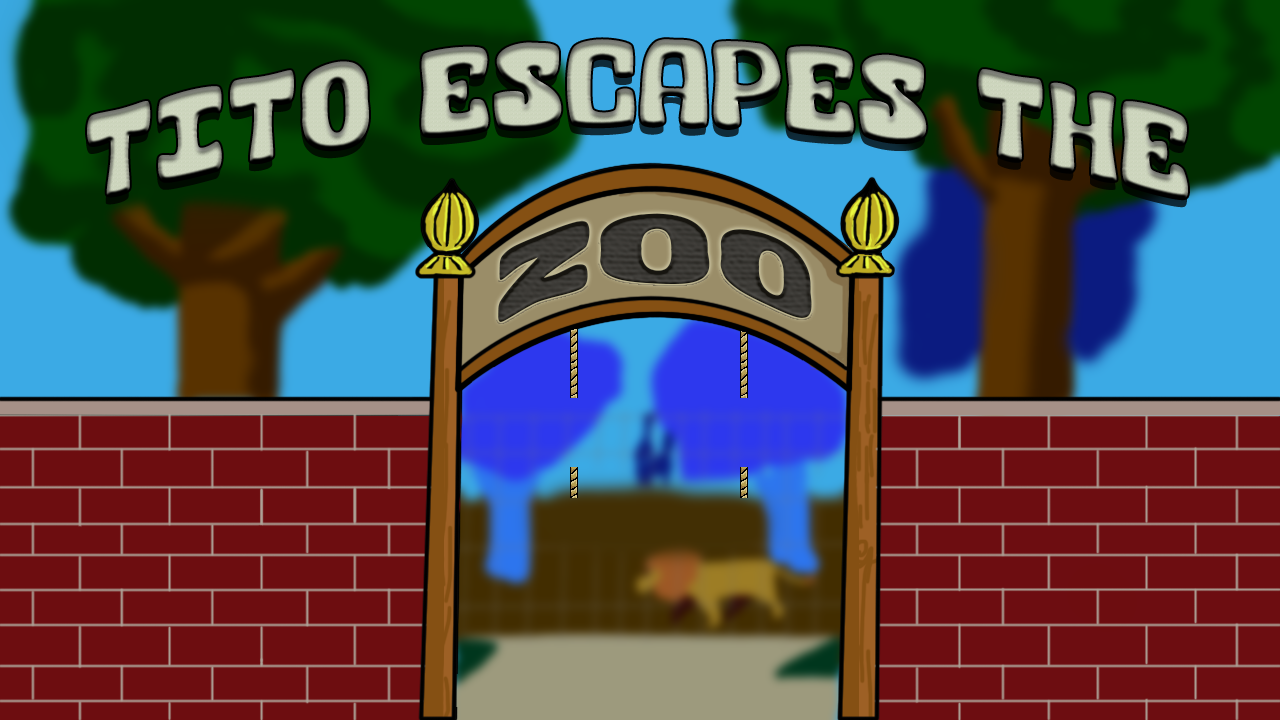
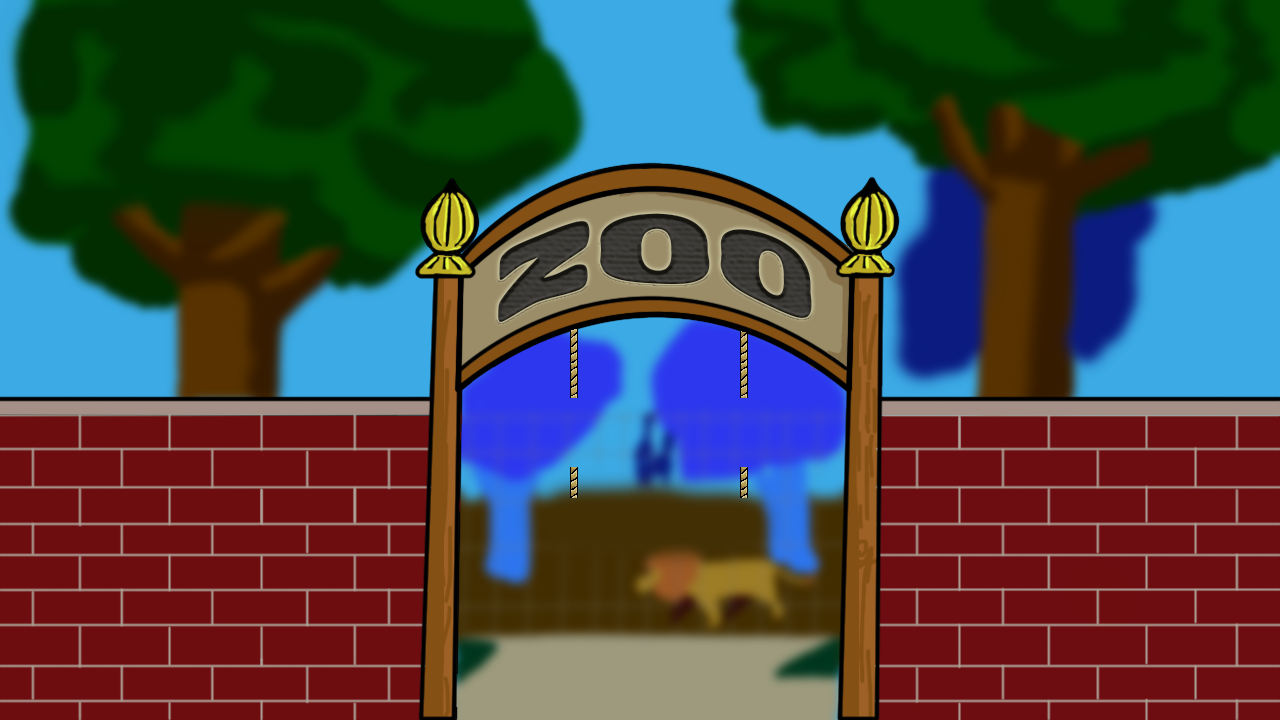
stuff

Changed region(s): [[0.0625, 0.0306, 0.9375, 0.3056]]

diff --git a/src/windows/MainMenu.java b/src/windows/MainMenu.java
@@ -4,6 +4,7 @@ import java.awt.*;
 import java.awt.event.*;
 import java.awt.image.*;
 import java.io.*;
+
 import javax.imageio.ImageIO;
 import javax.sound.sampled.Clip;
 import javax.swing.*;
@@ -13,12 +14,12 @@ import javax.swing.*;
  * 
  * @author Keven-Matthew
  */
-public class MainMenu extends JPanel {
+public class MainMenu extends JPanel implements ActionListener{
 
 	/**
 	 * This holds the image for the specific buttons.
 	 */
-	private BufferedImage playButtonIcon, playButtonHighlightIcon, newGameButtonIcon, newGameHighlightButtonIcon;
+	private BufferedImage playButtonIcon, playButtonHighlightIcon, newGameButtonIcon, newGameHighlightButtonIcon, titleImage;
 
 	/**
 	 * Holds the background image for the main menu.
@@ -43,6 +44,10 @@ public class MainMenu extends JPanel {
 	/**
 	 * Creates a new main menu.
 	 */
+	
+	private Timer t = new Timer(10, this);
+	private int yTitle = 15;
+	
 	public MainMenu() {
 		setLayout(null);
 		try {
@@ -51,6 +56,7 @@ public class MainMenu extends JPanel {
 			playButtonHighlightIcon = ImageIO.read(new File("Resources/Menus/MainMenu/playHighlightButton.png"));
 			newGameButtonIcon = ImageIO.read(new File("Resources/Menus/MainMenu/newGameButton.png"));
 			newGameHighlightButtonIcon = ImageIO.read(new File("Resources/Menus/MainMenu/newGameHighlightButton.png"));
+			titleImage = ImageIO.read(new File("Resources/Menus/MainMenu/title.png"));
 		} catch (IOException e) {
 			// TODO Auto-generated catch block
 			e.printStackTrace();
@@ -137,7 +143,7 @@ public class MainMenu extends JPanel {
 
 		add(playButton);
 		add(newGameButton);
-
+		t.start();
 	}
 
 	/**
@@ -146,12 +152,26 @@ public class MainMenu extends JPanel {
 	public void startMenuMusic() {
 
 	}
-
+	
 	@Override
 	protected void paintComponent(Graphics g) {
 		super.paintComponent(g);
-
+		
 		g.drawImage(backgroundImage, 0, 0, null);
+		g.drawImage(titleImage, 81, yTitle, null);
+	}
+
+	@Override
+	public void actionPerformed(ActionEvent arg0) {
+		boolean direction = true;
+		if(yTitle>=15 && yTitle<75 && direction){
+			yTitle++;
+		}
+		else (yTitle>15 && yTitle<=75 && !direction){
+			yTitle--;
+		}
+		
+		repaint();
 	}
 
 }

diff --git a/src/objects/Tito.java b/src/objects/Tito.java
@@ -5,7 +5,6 @@ import java.awt.image.BufferedImage;
 import java.io.File;
 import java.io.IOException;
 import java.net.URL;
-
 import javax.imageio.ImageIO;
 import javax.swing.Timer;
 
@@ -48,6 +47,7 @@ public class Tito extends Physics{
 		// TODO Auto-generated method stub
 		
 	}
+	
 	/**
 	 * Loads the buffered image
 	 * @return
